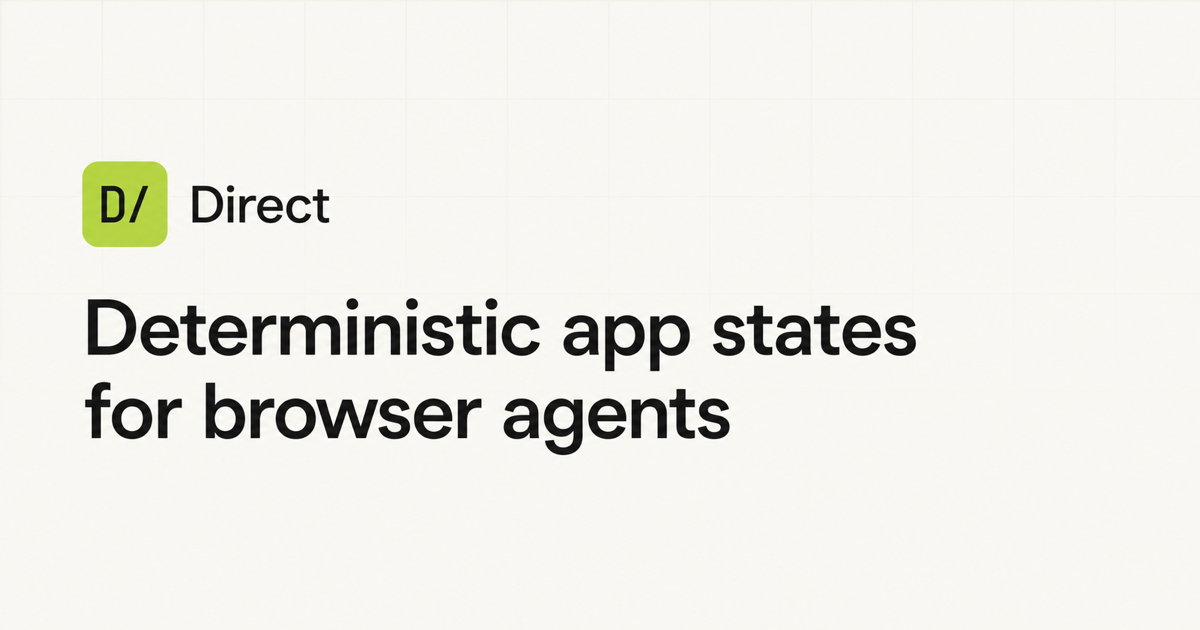
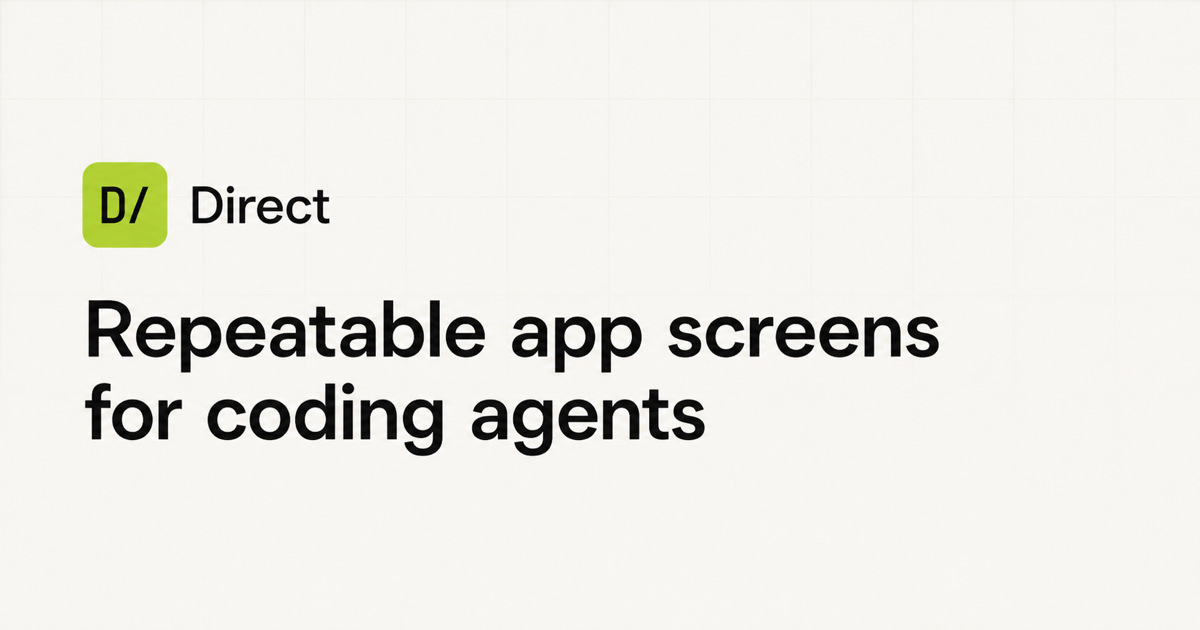
chore(direct): publish update
hraness-Public-State: 26e4f6afdaae18b28fdbf93a795cf0477163e9d2b94335fcdf7b221ef5597711

diff --git a/app/page.test.tsx b/app/page.test.tsx
@@ -3,18 +3,33 @@ import { readFile } from "node:fs/promises";
 import { describe, expect, test } from "bun:test";
 import { renderToStaticMarkup } from "react-dom/server";
 
+import { metadata } from "./layout";
+import directManifest from "./manifest";
 import HomePage from "./page";
+import {
+  DIRECT_DESCRIPTION,
+  DIRECT_TAGLINE,
+  DIRECT_TITLE,
+} from "./site-shell";
 import { DIRECT_PACKAGE_VERSION } from "./version";
 
 describe("Direct home page", () => {
   test("is a compact project page with the package-versioned install command", async () => {
     const html = renderToStaticMarkup(<HomePage />);
-    const manifest = JSON.parse(
-      await readFile(new URL("../package.json", import.meta.url), "utf8"),
-    ) as { readonly version?: unknown };
+    const [manifestSource, readme] = await Promise.all([
+      readFile(new URL("../package.json", import.meta.url), "utf8"),
+      readFile(new URL("../README.md", import.meta.url), "utf8"),
+    ]);
+    const manifest = JSON.parse(manifestSource) as {
+      readonly description?: unknown;
+      readonly version?: unknown;
+    };
 
     expect(html).toContain("<h1>direct</h1>");
-    expect(html).toContain("named, repeatable app states for browser agents.");
+    expect(html).toContain(`${DIRECT_TAGLINE}.`);
+    expect(html).toContain(`"description":"${DIRECT_DESCRIPTION}"`);
+    expect(manifest.description).toBe(DIRECT_DESCRIPTION);
+    expect(readme).toStartWith(`# direct\n\n${DIRECT_TAGLINE}.\n`);
     expect(typeof manifest.version).toBe("string");
     if (typeof manifest.version !== "string") {
       throw new Error("Direct package manifest has no string version");
@@ -25,15 +40,28 @@ describe("Direct home page", () => {
     );
     expect(html).toContain("development only.");
     expect(html).toContain(
-      "define signed-in, empty, error, and other hard-to-reach states once",
+      "set up signed-in, empty, error, and other hard-to-reach screens once",
     );
     expect(html).toContain(
-      "direct does not drive the browser or test those systems.",
+      "direct does not click through the browser or test the systems it replaces.",
     );
+    expect(html).toContain("predictable local stand-ins");
+    expect(html).not.toContain("development composition");
+    expect(html).not.toContain("deterministic adapters");
     expect(html).not.toContain("direct gives a real frontend");
     expect(html).not.toContain("live tests still prove");
     expect(html).not.toContain("direct-capability-grid");
     expect(html).toContain('href="/docs/overview"');
+  });
+
+  test("keeps the public identity aligned across site metadata", () => {
+    expect(metadata.title).toBe(DIRECT_TITLE);
+    expect(metadata.description).toBe(DIRECT_DESCRIPTION);
+    expect(metadata.openGraph?.title).toBe(DIRECT_TITLE);
+    expect(metadata.openGraph?.description).toBe(DIRECT_DESCRIPTION);
+    expect(metadata.twitter?.title).toBe(DIRECT_TITLE);
+    expect(metadata.twitter?.description).toBe(DIRECT_DESCRIPTION);
+    expect(directManifest().description).toBe(DIRECT_DESCRIPTION);
   });
 
   test("keeps the canonical publication and repository in navigation", () => {

diff --git a/app/page.tsx b/app/page.tsx
@@ -1,6 +1,9 @@
 import {
   DIRECT_ARTICLE_URL,
+  DIRECT_DESCRIPTION,
   DIRECT_GITHUB_URL,
+  DIRECT_SITE_URL,
+  DIRECT_TAGLINE,
   SiteFooter,
 } from "./site-shell";
 import { DIRECT_INSTALL_COMMAND } from "./version";
@@ -12,11 +15,11 @@ const structuredData = {
   "@type": "SoftwareApplication",
   applicationCategory: "DeveloperApplication",
   codeRepository: DIRECT_GITHUB_URL,
-  description: "Named, repeatable app states for browser agents.",
+  description: DIRECT_DESCRIPTION,
   isAccessibleForFree: true,
   name: "Direct",
   operatingSystem: "Any",
-  url: "https://hraness.direct/",
+  url: `${DIRECT_SITE_URL}/`,
 } as const;
 
 export default function HomePage() {
@@ -31,7 +34,7 @@ export default function HomePage() {
           type="application/ld+json"
         />
         <h1>direct</h1>
-        <p>named, repeatable app states for browser agents.</p>
+        <p>{DIRECT_TAGLINE}.</p>
 
         <section aria-labelledby="install">
           <h2 id="install">install</h2>
@@ -42,14 +45,14 @@ export default function HomePage() {
         <section aria-labelledby="about">
           <h2 id="about">about</h2>
           <p>
-            define signed-in, empty, error, and other hard-to-reach states once,
-            then open them by url in a development build.
+            set up signed-in, empty, error, and other hard-to-reach screens once,
+            then open them by URL during development.
           </p>
           <p>
-            your interface and feature code stay on their normal paths. the
-            development composition replaces selected external systems with
-            deterministic adapters. direct does not drive the browser or test
-            those systems.
+            your interface and feature code run normally. in development,
+            direct replaces only the outside systems needed for that screen
+            with predictable local stand-ins. direct does not click through the
+            browser or test the systems it replaces.
           </p>
         </section>
 

diff --git a/app/layout.tsx b/app/layout.tsx
@@ -2,29 +2,32 @@ import type { Metadata, Viewport } from "next";
 import type { ReactNode } from "react";
 
 import "./globals.css";
+import {
+  DIRECT_DESCRIPTION,
+  DIRECT_SITE_URL,
+  DIRECT_TITLE,
+} from "./site-shell";
 
-const description =
-  "Named, repeatable app states for browser agents.";
-const siteUrl = new URL("https://hraness.direct");
+const siteUrl = new URL(DIRECT_SITE_URL);
 
 export const metadata: Metadata = {
   metadataBase: siteUrl,
-  title: "direct — named, repeatable app states for browser agents",
-  description,
+  title: DIRECT_TITLE,
+  description: DIRECT_DESCRIPTION,
   alternates: { canonical: "/" },
   applicationName: "Direct",
   openGraph: {
     type: "website",
     url: "/",
     siteName: "direct",
-    title: "direct — named, repeatable app states for browser agents",
-    description,
+    title: DIRECT_TITLE,
+    description: DIRECT_DESCRIPTION,
     images: [{ url: "/og.png", width: 1200, height: 630 }],
   },
   twitter: {
     card: "summary_large_image",
-    title: "direct — named, repeatable app states for browser agents",
-    description,
+    title: DIRECT_TITLE,
+    description: DIRECT_DESCRIPTION,
     images: ["/og.png"],
   },
 };

diff --git a/app/site-shell.tsx b/app/site-shell.tsx
@@ -1,6 +1,10 @@
 export const DIRECT_ARTICLE_URL =
   "https://hraness.pub/articles/direct-a-harness-for-your-frontend";
+export const DIRECT_DESCRIPTION = "Repeatable app screens for coding agents.";
 export const DIRECT_GITHUB_URL = "https://github.com/hraness/direct";
+export const DIRECT_SITE_URL = "https://hraness.direct";
+export const DIRECT_TAGLINE = "repeatable app screens for coding agents";
+export const DIRECT_TITLE = `direct — ${DIRECT_TAGLINE}`;
 
 type DirectRoute = "home" | "overview";
 

diff --git a/app/manifest.ts b/app/manifest.ts
@@ -1,11 +1,11 @@
 import type { MetadataRoute } from "next";
+import { DIRECT_DESCRIPTION } from "./site-shell";
 
 export default function manifest(): MetadataRoute.Manifest {
   return {
     name: "Direct",
     short_name: "Direct",
-    description:
-      "Named, repeatable app states for browser agents working on real interfaces.",
+    description: DIRECT_DESCRIPTION,
     start_url: "/",
     display: "standalone",
     background_color: "#f6f6f1",

diff --git a/README.md b/README.md
@@ -1,12 +1,12 @@
 # direct
 
-named, repeatable app states for browser agents.
+repeatable app screens for coding agents.
 
-define signed-in, empty, error, and other hard-to-reach states once, then open
-them by url in a development build. your interface and feature code stay on
-their normal paths. the development composition replaces selected external
-systems with deterministic adapters. direct does not drive the browser or test
-those systems.
+set up signed-in, empty, error, and other hard-to-reach screens once, then open
+them by URL during development. your interface and feature code run normally.
+direct replaces only the outside systems needed for that screen with
+predictable local stand-ins. it does not click through the browser or test the
+systems it replaces.
 
 ```sh
 bun add --dev github:hraness/direct#v0.6.0
